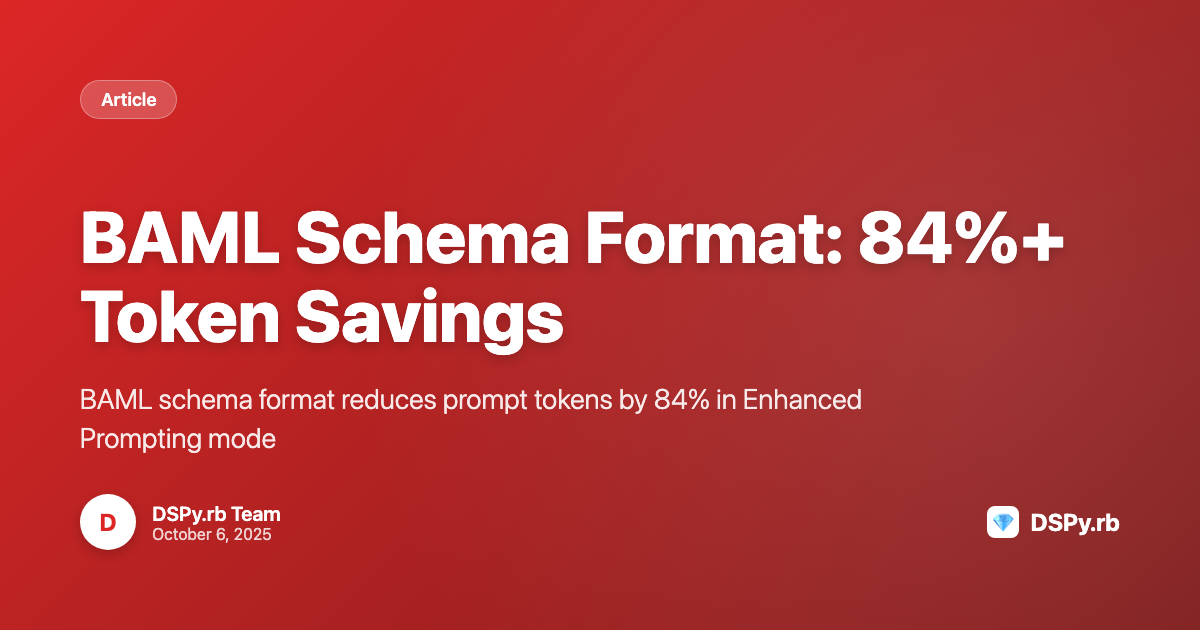
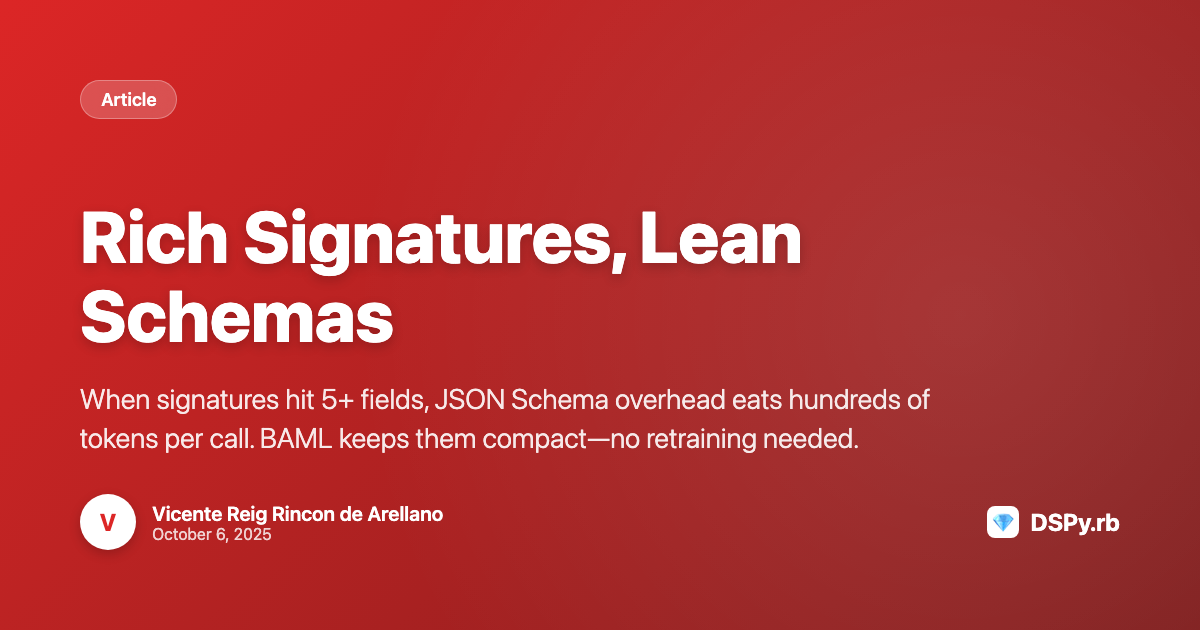
docs: ground BAML article with actual implementation
Update TaskDecomposition signature examples to match real integration
test implementation. Fix field names (estimated_effort vs estimated_hours,
dependencies as Array vs Hash, add agent_requirements). Add links to
DSPy.rb and sorbet-baml repos. Update usage examples with correct
parameters.

🤖 Generated with [Claude Code](https://claude.com/claude-code)

diff --git a/docs/src/_articles/baml-schema-format.md b/docs/src/_articles/baml-schema-format.md
@@ -3,7 +3,7 @@ layout: blog
 title: "Rich Signatures, Lean Schemas"
 date: 2025-10-07
 description: "When signatures hit 5+ fields, JSON Schema overhead eats hundreds of tokens per call. BAML keeps them compact—no retraining needed."
-author: "DSPy.rb Team"
+author: "Vicente Reig Rincon de Arellano"
 canonical_url: "https://vicentereig.github.io/dspy.rb/blog/articles/baml-schema-format/"
 image: /images/og/baml-schema-format.png
 ---
@@ -18,8 +18,12 @@ Here's a basic signature - just input and output:
 
 ```ruby
 class SentimentAnalysis < DSPy::Signature
-  input :text, String
-  output :sentiment, String, desc: "positive, negative, or neutral"
+  input do
+    const :text, String
+  end
+  output do
+    const :sentiment, String, description: "positive, negative, or neutral"
+  end
 end
 ```
 
@@ -31,18 +35,25 @@ But real applications need more structure. Task decomposition, for example:
 
 ```ruby
 class TaskDecomposition < DSPy::Signature
-  input :main_task, String
+  description "Autonomously analyze a research topic and define optimal subtasks"
 
-  output :subtasks, T::Array[String]
-  output :task_types, T::Array[String]
-  output :priority_order, T::Array[Integer]
-  output :dependencies, T::Hash[String, T::Array[String]]
-  output :estimated_hours, T::Array[Float]
-  output :risk_level, String
+  input do
+    const :topic, String, description: "The main research topic to investigate"
+    const :context, String, description: "Any additional context or constraints"
+  end
+
+  output do
+    const :subtasks, T::Array[String], description: "Research subtasks with clear objectives"
+    const :task_types, T::Array[String], description: "Type classification for each task"
+    const :priority_order, T::Array[Integer], description: "Priority rankings (1-5 scale)"
+    const :estimated_effort, T::Array[Integer], description: "Effort estimates in hours"
+    const :dependencies, T::Array[String], description: "Task dependency relationships"
+    const :agent_requirements, T::Array[String], description: "Suggested agent types/skills"
+  end
 end
 ```
 
-Six fields. Nested types. This is where schemas start creeping into your prompts.
+Six output fields with descriptions. Nested types. This is where schemas start creeping into your prompts.
 
 ## The Schema Problem
 
@@ -55,32 +66,36 @@ With Enhanced Prompting (the default mode in DSPy.rb), schemas are embedded dire
   "properties": {
     "subtasks": {
       "type": "array",
-      "items": {"type": "string"}
+      "items": {"type": "string"},
+      "description": "Research subtasks with clear objectives"
     },
     "task_types": {
       "type": "array",
-      "items": {"type": "string"}
+      "items": {"type": "string"},
+      "description": "Type classification for each task"
     },
     "priority_order": {
       "type": "array",
-      "items": {"type": "integer"}
+      "items": {"type": "integer"},
+      "description": "Priority rankings (1-5 scale)"
+    },
+    "estimated_effort": {
+      "type": "array",
+      "items": {"type": "integer"},
+      "description": "Effort estimates in hours"
     },
     "dependencies": {
-      "type": "object",
-      "additionalProperties": {
-        "type": "array",
-        "items": {"type": "string"}
-      }
-    },
-    "estimated_hours": {
       "type": "array",
-      "items": {"type": "number"}
+      "items": {"type": "string"},
+      "description": "Task dependency relationships"
     },
-    "risk_level": {
-      "type": "string"
+    "agent_requirements": {
+      "type": "array",
+      "items": {"type": "string"},
+      "description": "Suggested agent types/skills"
     }
   },
-  "required": ["subtasks", "task_types", "priority_order", "dependencies", "estimated_hours", "risk_level"]
+  "required": ["subtasks", "task_types", "priority_order", "estimated_effort", "dependencies", "agent_requirements"]
 }
 ```
 
@@ -90,16 +105,16 @@ For rich signatures, JSON Schema verbosity becomes a real cost. Each API call ca
 
 ## BAML: The Simple Fix
 
-DSPy.rb v0.28.2 adds [BAML](https://docs.boundaryml.com) schema format support. BAML provides the same information compactly:
+[DSPy.rb v0.28.2](https://github.com/vicentereig/dspy.rb) adds [BAML](https://github.com/vicentereig/sorbet-baml) schema format support via the [`sorbet-baml`](https://github.com/vicentereig/sorbet-baml) gem. BAML provides the same information compactly:
 
 ```baml
 class TaskDecomposition {
   subtasks string[]
   task_types string[]
   priority_order int[]
-  dependencies map<string, string[]>
-  estimated_hours float[]
-  risk_level string
+  estimated_effort int[]
+  dependencies string[]
+  agent_requirements string[]
 }
 ```
 
@@ -144,7 +159,10 @@ end
 
 # Use any signature - BAML is automatic
 predictor = DSPy::Predict.new(TaskDecomposition)
-result = predictor.call(main_task: "Build user authentication")
+result = predictor.call(
+  topic: "Build user authentication",
+  context: "Focus on security best practices"
+)
 ```
 
 Works with all providers in Enhanced Prompting mode: OpenAI, Anthropic, Gemini, Ollama.
